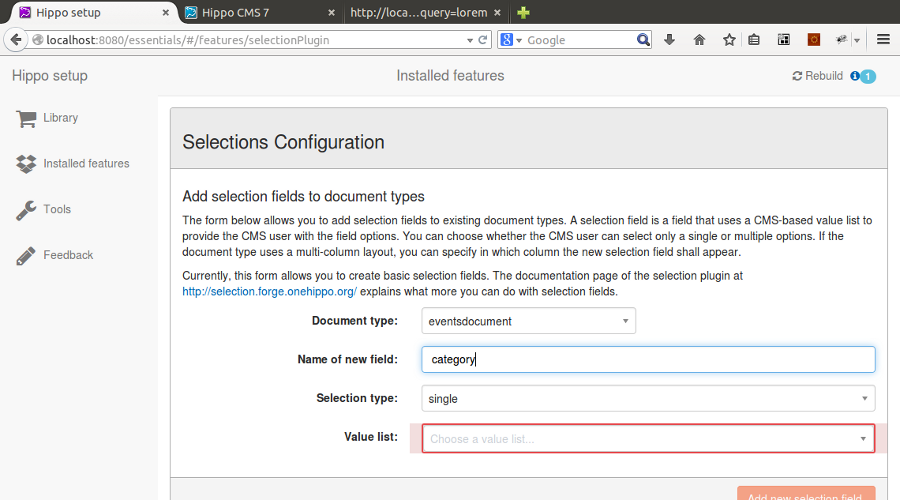
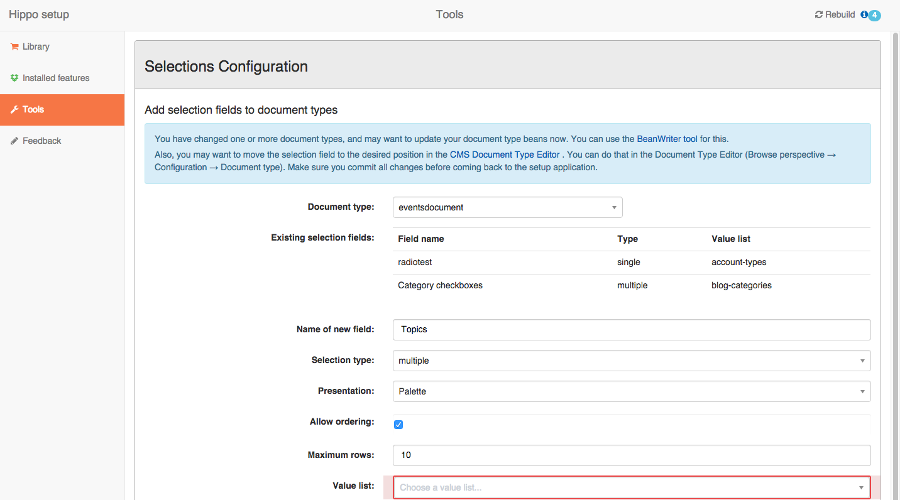
ESSENTIALS-467: Add support for more selections options.

diff --git a/essentials/plugins/selection/src/main/resources/META-INF/resources/tool/selectionPlugin/selectionPlugin.js b/essentials/plugins/selection/src/main/resources/META-INF/resources/tool/selectionPlugin/selectionPlugin.js
@@ -19,88 +19,113 @@
     angular.module('hippo.essentials')
         .controller('selectionPluginCtrl', function ($scope, $filter, $sce, $log, $rootScope, $http) {
 
-                var restEndpoint = $rootScope.REST.dynamic + 'selectionplugin/';
+            var restEndpoint = $rootScope.REST.dynamic + 'selectionplugin/';
+            var singlePresentations = [
+                { id: 'dropdown', label: 'Dropdown'},
+                { id: 'radioboxes', label: 'Radioboxes'}
+            ];
+            var multiplePresentations = [
+                { id: 'selectlist', label: 'Select list' },
+                { id: 'checkboxes', label: 'Checkboxes' },
+                { id: 'palette', label: 'Palette' }
+            ];
 
-                $scope.addField = function() {
-                    var payload = {
-                        values: {
-                            namespace:     $scope.selectedDocumentType.prefix,
-                            documentType:  $scope.selectedDocumentType.name,
-                            fieldName:     $scope.fieldName,
-                            selectionType: $scope.selectionType,
-                            valueList:     $scope.selectedValueList.value
-                        }
-                    };
-                    $http.post(restEndpoint + 'addfield/', payload).success(function () {
-                        resetAddFieldForm();
-                        reloadSelectionFields($scope.selectedDocumentType);
-                        $scope.fieldAdded = true;
-                        $scope.modifiedType = $scope.selectedDocumentType;
-                    });
+            $scope.addField = function() {
+                var payload = {
+                    values: {
+                        namespace:     $scope.selectedDocumentType.prefix,
+                        documentType:  $scope.selectedDocumentType.name,
+                        fieldName:     $scope.fieldName,
+                        selectionType: $scope.selectionType,
+                        valueList:     $scope.selectedValueList.value,
+                        presentation:  $scope.presentation.id,
+                        orientation:   $scope.orientation,
+                        maxRows:       $scope.maxRows,
+                        allowOrdering: $scope.allowOrdering
+                    }
                 };
-                $scope.showDocument = function(documentType) { // don't show the basedocument option
-                    return documentType.name !== 'basedocument';
-                };
+                $http.post(restEndpoint + 'addfield/', payload).success(function () {
+                    resetAddFieldForm();
+                    reloadSelectionFields($scope.selectedDocumentType);
+                    $scope.fieldAdded = true;
+                    $scope.modifiedType = $scope.selectedDocumentType;
+                });
+            };
+            $scope.showDocument = function(documentType) { // don't show the basedocument option
+                return documentType.name !== 'basedocument';
+            };
 
-                $scope.valueListAsOption = function(valueList) {
-                    return valueList.key + ' (' + valueList.value + ')';
-                };
-                $scope.selectionTypes = [ 'single', 'multiple' ];
-                $scope.valueListNameByPath = function(path) {
-                    var name = '';
-                    angular.forEach($scope.valueLists, function(entry) {
-                        if (entry.value === path) {
-                            name = entry.key;
-                        }
-                    });
-                    return name;
-                };
-                resetAddFieldForm();
-                loadValueLists();
-
-                $scope.documentTypes = [];
-                $http.get($rootScope.REST.documents).success(function (data){
-                    debugger;
-                    $scope.documentTypes = data;
-
-                    // if there's only one selectable type, preselect it.
-                    var selectable = [];
-                    angular.forEach($scope.documentTypes, function(type) {
-                        if ($scope.showDocument(type)) {
-                            selectable.push(type);
-                        }
-                    });
-                    if (selectable.length == 1) {
-                        $scope.selectedDocumentType = selectable[0];
+            $scope.valueListAsOption = function(valueList) {
+                return valueList.key + ' (' + valueList.value + ')';
+            };
+            $scope.selectionTypes = [ 'single', 'multiple' ];
+            $scope.$watch('selectionType', function(newValue) {
+                console.log("Selection type: ", newValue);
+                if (newValue === 'single') {
+                    $scope.typePresentations = singlePresentations;
+                } else if (newValue === 'multiple') {
+                    $scope.typePresentations = multiplePresentations;
+                }
+                $scope.presentation = $scope.typePresentations[0]; // set default
+            });
+            $scope.orientations = [ 'vertical', 'horizontal' ];
+            $scope.orientation = $scope.orientations[0]; // set default
+            $scope.valueListNameByPath = function(path) {
+                var name = '';
+                angular.forEach($scope.valueLists, function(entry) {
+                    if (entry.value === path) {
+                        name = entry.key;
                     }
                 });
+                return name;
+            };
+            resetAddFieldForm();
+            loadValueLists();
 
-                // when changing the document type, set the default position and retrieve a fresh list of fields
-                $scope.$watch('selectedDocumentType', function (newDocType) {
-                    if (newDocType) {
-                        reloadSelectionFields(newDocType);
-                    } else {
-                        $scope.selectionFields = [];
+            $scope.documentTypes = [];
+            $http.get($rootScope.REST.documents).success(function (data){
+                $scope.documentTypes = data;
+
+                // if there's only one selectable type, preselect it.
+                var selectable = [];
+                angular.forEach($scope.documentTypes, function(type) {
+                    if ($scope.showDocument(type)) {
+                        selectable.push(type);
                     }
-                }, true);
+                });
+                if (selectable.length == 1) {
+                    $scope.selectedDocumentType = selectable[0];
+                }
+            });
 
-                // Helper functions
-                function loadValueLists() {
-                    $http.get($rootScope.REST.documents + "selection:valuelist").success(function (data) {
-                        console.log(data);
-                        $scope.valueLists = data;
-                    });
-                }
-                function resetAddFieldForm() {
-                    $scope.fieldName = '';
-                    $scope.selectionType = 'single';
-                    $scope.selectedValueList = undefined;
-                }
-                function reloadSelectionFields(documentType) {
+            // when changing the document type, set the default position and retrieve a fresh list of fields
+            $scope.$watch('selectedDocumentType', function (newDocType) {
+                if (newDocType) {
+                    reloadSelectionFields(newDocType);
+                } else {
                     $scope.selectionFields = [];
-                    $http.get(restEndpoint + 'fieldsfor/' + documentType.fullName).success(function (data) {
-                        $scope.selectionFields = data;
-                    });
                 }
+            }, true);
+
+            // Helper functions
+            function loadValueLists() {
+                $http.get($rootScope.REST.documents + "selection:valuelist").success(function (data) {
+                    $scope.valueLists = data;
+                });
+            }
+            function resetAddFieldForm() {
+                $scope.fieldName = '';
+                console.log("Setting selection type");
+                $scope.selectionType = 'single';
+                $scope.selectedValueList = undefined;
+                $scope.allowOrdering = false;
+                $scope.maxRows = undefined;
+            }
+            function reloadSelectionFields(documentType) {
+                $scope.selectionFields = [];
+                $http.get(restEndpoint + 'fieldsfor/' + documentType.fullName).success(function (data) {
+                    $scope.selectionFields = data;
+                });
+            }
         })
 })();

diff --git a/essentials/plugins/selection/src/main/resources/META-INF/resources/tool/selectionPlugin/selectionPlugin.html b/essentials/plugins/selection/src/main/resources/META-INF/resources/tool/selectionPlugin/selectionPlugin.html
@@ -105,6 +105,38 @@
                             </select>
                         </div>
                     </div>
+                    <div class="form-group" ng-show="selectionType">
+                        <label class="col-sm-4 control-label">Presentation:</label>
+                        <div class="col-sm-8">
+                            <select class="form-control" hippo.theme.select-box
+                                    ng-model="presentation"
+                                    ng-options="pres.label for pres in typePresentations"
+                                    data-options="typePresentations">
+                            </select>
+                        </div>
+                    </div>
+                    <div class="form-group" ng-show="presentation.id === 'radioboxes'">
+                        <label class="col-sm-4 control-label">Orientation:</label>
+                        <div class="col-sm-8">
+                            <select class="form-control" hippo.theme.select-box
+                                    ng-model="orientation"
+                                    ng-options="ori for ori in orientations"
+                                    data-options="orientations">
+                            </select>
+                        </div>
+                    </div>
+                    <div class="form-group" ng-show="presentation.id === 'palette'">
+                        <label class="col-sm-4 control-label">Allow ordering:</label>
+                        <div class="col-sm-8">
+                            <input class="form-control" type="checkbox" ng-model="allowOrdering"/>
+                        </div>
+                    </div>
+                    <div class="form-group" ng-show="presentation.id === 'palette' || presentation.id === 'selectlist'">
+                        <label class="col-sm-4 control-label">Maximum rows:</label>
+                        <div class="col-sm-8">
+                            <input class="form-control" type="text" ng-model="maxRows" ng-pattern="/^\d+$/" placeholder="No limit"/>
+                        </div>
+                    </div>
                     <div class="form-group">
                         <label class="col-sm-4 control-label">Value list:</label>
                         <div class="col-sm-8" ng-class="addFieldForm.valueList.$invalid ? 'bg-danger' : ''">

diff --git a/essentials/plugins/selection/src/main/java/org/onehippo/cms7/essentials/plugins/selection/SelectionResource.java b/essentials/plugins/selection/src/main/java/org/onehippo/cms7/essentials/plugins/selection/SelectionResource.java
@@ -130,17 +130,18 @@ public class SelectionResource extends BaseResource {
                                        final String documentName, final Node nodeType, final Node editorTemplate)
         throws RepositoryException
     {
+        final String pluginClass = "org.hippoecm.frontend.editor.plugins.field.PropertyFieldPlugin";
         final NodeIterator children = nodeType.getNodes();
         while (children.hasNext()) {
             final Node child = children.nextNode();
 
-            if (child.hasProperty("hipposysedit:type") && "DynamicDropdown".equals(child.getProperty("hipposysedit:type").getString())) {
-                final String fieldName = child.getName();
-                final NodeIterator editorFields = editorTemplate.getNodes();
-                while (editorFields.hasNext()) {
-                    final Node editorField = editorFields.nextNode();
-                    if (editorField.hasProperty("field") && fieldName.equals(editorField.getProperty("field").getString())
-                        && !editorField.hasNode("valuelist.options")) {
+            if (child.hasProperty("hipposysedit:type")) {
+                String type = child.getProperty("hipposysedit:type").getString();
+                if ("DynamicDropdown".equals(type) || "selection:RadioGroup".equals(type)) {
+                    final Node editorField = findCorrespondingEditorTemplateField(child, editorTemplate);
+                    if (editorField != null && editorField.hasProperty("plugin.class")
+                            && pluginClass.equals(editorField.getProperty("plugin.class").getString())) {
+
                         final SelectionFieldRestful field = new SelectionFieldRestful();
                         field.setType("single");
                         field.setNameSpace(nameSpace);
@@ -148,11 +149,30 @@ public class SelectionResource extends BaseResource {
                         field.setName(editorField.getProperty("caption").getString());
                         field.setValueList(editorField.getNode("cluster.options").getProperty("source").getString());
                         fields.add(field);
-                        break; // out of the inner loop
                     }
                 }
             }
         }
+    }
+
+    /**
+     * @param nodeTypeField  Node representing the field's node type definition
+     * @param editorTemplate Node representing the document's editor template
+     * @return               Node representing the field's editor template definition, or null.
+     * @throws RepositoryException
+     */
+    private Node findCorrespondingEditorTemplateField(final Node nodeTypeField, final Node editorTemplate)
+        throws RepositoryException
+    {
+        final String fieldName = nodeTypeField.getName();
+        final NodeIterator editorFields = editorTemplate.getNodes();
+        while (editorFields.hasNext()) {
+            final Node editorField = editorFields.nextNode();
+            if (editorField.hasProperty("field") && fieldName.equals(editorField.getProperty("field").getString())) {
+                return editorField;
+            }
+        }
+        return null;
     }
 
     /**
@@ -219,7 +239,15 @@ public class SelectionResource extends BaseResource {
         // Put the new field to the default location
         values.put("fieldPosition", DocumentTemplateUtils.getDefaultPosition(editorTemplate));
 
+        log.error("allowOrdering is {}.", values.get("allowOrdering"));
+
+        String presentationType = "DynamicDropdown";
         if ("single".equals(values.get("selectionType"))) {
+            if ("radioboxes".equals(values.get("presentation"))) {
+                presentationType = "selection:RadioGroup";
+            }
+            values.put("presentationType", presentationType);
+
             importXml("/xml/single-field-editor-template.xml", values, editorTemplate);
             importXml("/xml/single-field-node-type.xml", values, nodeType);
         } else if ("multiple".equals(values.get("selectionType"))) {
@@ -269,6 +297,7 @@ public class SelectionResource extends BaseResource {
     {
         final InputStream stream = getClass().getResourceAsStream(resourcePath);
         final String processedXml = TemplateUtils.replaceStringPlaceholders(GlobalUtils.readStreamAsText(stream), placeholderMap);
+        log.error("Imported XML is '{}'.", processedXml);
         destination.getSession().importXML(destination.getPath(), IOUtils.toInputStream(processedXml),
                 ImportUUIDBehavior.IMPORT_UUID_COLLISION_REPLACE_EXISTING);
     }
